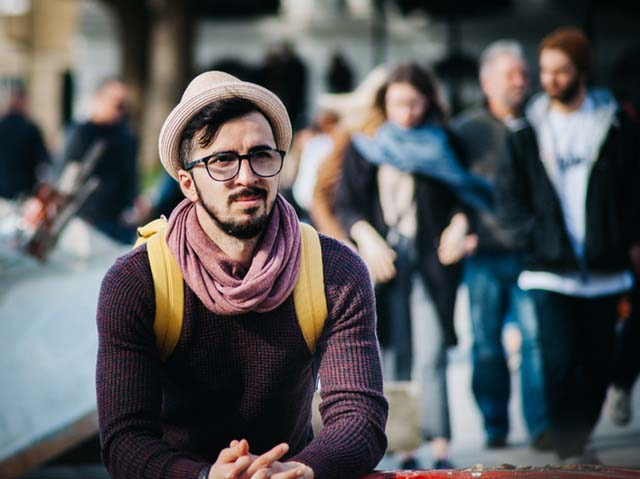
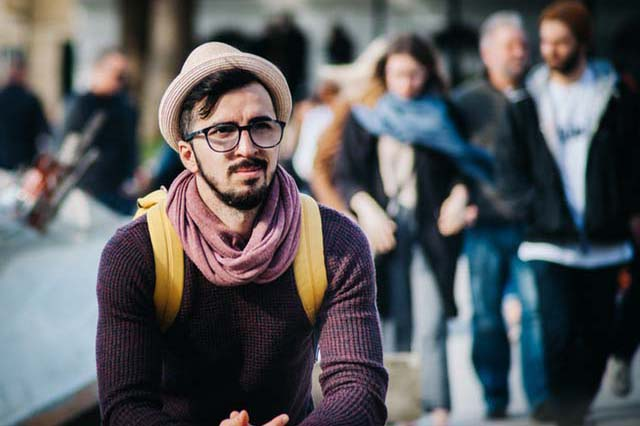
title updateds, img size fixed

diff --git a/builds/postcss/index.html b/builds/postcss/index.html
@@ -2,7 +2,7 @@
 <html lang="en">
 <head>
   <meta charset="UTF-8">
-  <title>PostCSS Layouts</title>
+  <title>Jewelry Shop</title>
   <link rel="stylesheet" href="css/style.css">
   <meta name="viewport" content="width=device-width, initial-scale=1.0">
 </head>
